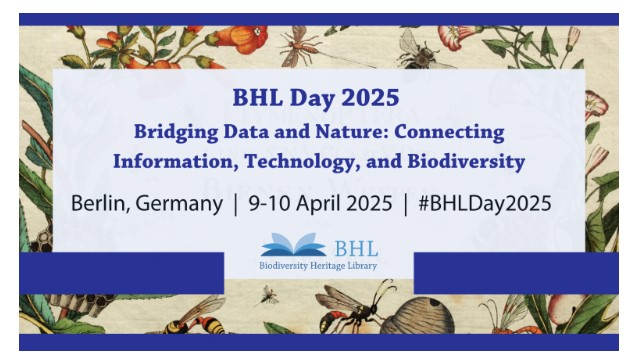
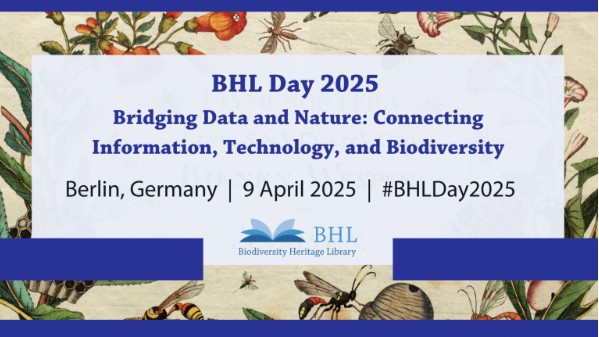
deploy: 8f444ab9e80b60d751b22bdfd4b79fcc4f79fdc2

diff --git a/en/events/bhl25/index.html b/en/events/bhl25/index.html
@@ -103,7 +103,7 @@
     
   
 
-  <p><strong>BHL Day 2025</strong>, the two days hybrid symposium and workshop has been organized by <a href="https://about.biodiversitylibrary.org/">Biodiversity Heritage Library</a>. This event will bring together the Information Scientists, Data Professional, Developers, Researchers, Academician acrosss the world to share their knowledge and discuss the challenges.</p>
+  <p><strong>BHL Day 2025</strong>, One day public symposium has been organized by <a href="https://about.biodiversitylibrary.org/">Biodiversity Heritage Library</a>. This event will bring together the Information Scientists, Data Professional, Developers, Researchers, Academician acrosss the world to share their knowledge and discuss the challenges.</p>
 <p><a href="https://about.biodiversitylibrary.org/get-involved/events/bhl-day-2025/">Click here to read more</a></p>
 <h4>Theme for BHL Day 2025</h4>
 <p><strong>Bridging Data and Nature: Connecting Information, Technology, and Biodiversity</strong></p>
@@ -118,16 +118,14 @@
 <h3>Date and Time</h3>
 <ul>
 <li><strong>9 April 2025</strong>, 12:00-18:00 CEST <strong>(15:30 - 21:30 IST)</strong></li>
-<li><strong>10 April 2025</strong>, 09:30-13:00 CEST (13:00 - 16:30 IST)</li>
 </ul>
 <h3>Registration</h3>
 <h4><a href="https://about.biodiversitylibrary.org/get-involved/events/bhl-day-2025/">CLICK HERE to see the information</a></h4>
 <h3>Mode</h3>
 <ul>
 <li><strong>Hybrid</strong> : Symposium</li>
-<li><strong>Workshop</strong> : In-person</li>
 </ul>
-<h3>Program Details for the Day 1 | 09 April, 2025</h3>
+<h3>Program Details for Wednesday 9 April, 2025</h3>
 <table>
   <tr>
     <td>

diff --git a/en/tags/index.html b/en/tags/index.html
@@ -163,22 +163,22 @@
     </div>
     
     <div class="card">
-      <h2 class="card__title"><a href="/p/en/tags/climate-knowledge"/>climate knowledge</a></h2>
-      <div class="card__subtitle">1 Posts</div>
-    </div>
-    
-    <div class="card">
-      <h2 class="card__title"><a href="/p/en/tags/tools"/>tools</a></h2>
-      <div class="card__subtitle">1 Posts</div>
-    </div>
-    
-    <div class="card">
       <h2 class="card__title"><a href="/p/en/tags/introduction"/>introduction</a></h2>
       <div class="card__subtitle">1 Posts</div>
     </div>
     
     <div class="card">
       <h2 class="card__title"><a href="/p/en/tags/examples"/>examples</a></h2>
+      <div class="card__subtitle">1 Posts</div>
+    </div>
+    
+    <div class="card">
+      <h2 class="card__title"><a href="/p/en/tags/climate-knowledge"/>climate knowledge</a></h2>
+      <div class="card__subtitle">1 Posts</div>
+    </div>
+    
+    <div class="card">
+      <h2 class="card__title"><a href="/p/en/tags/tools"/>tools</a></h2>
       <div class="card__subtitle">1 Posts</div>
     </div>
     
